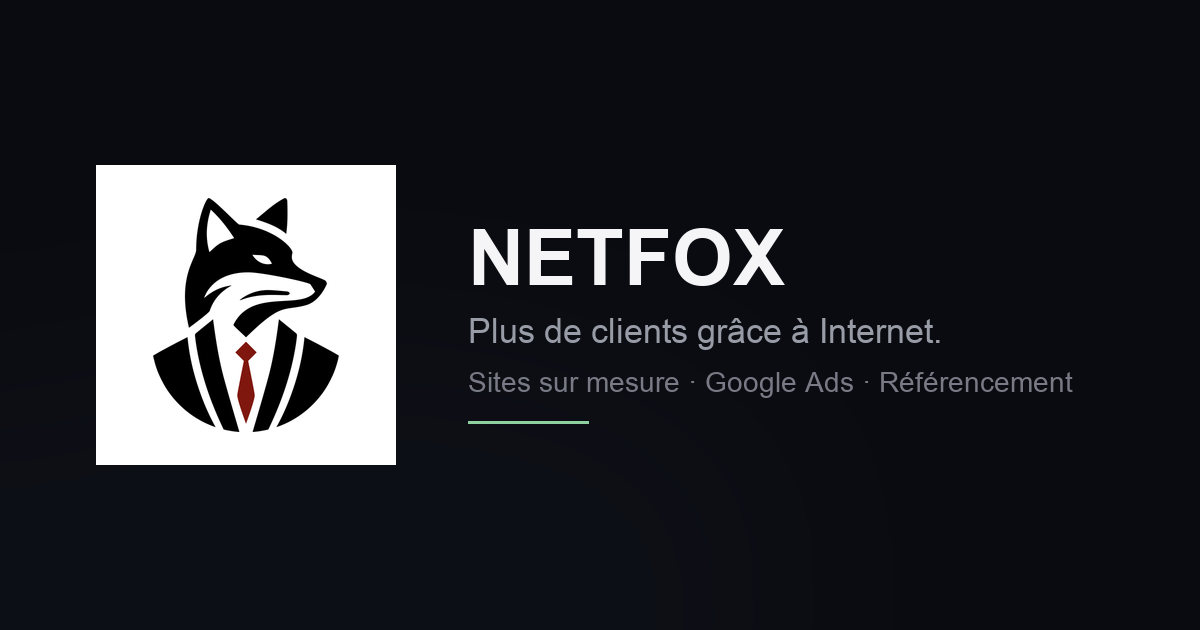
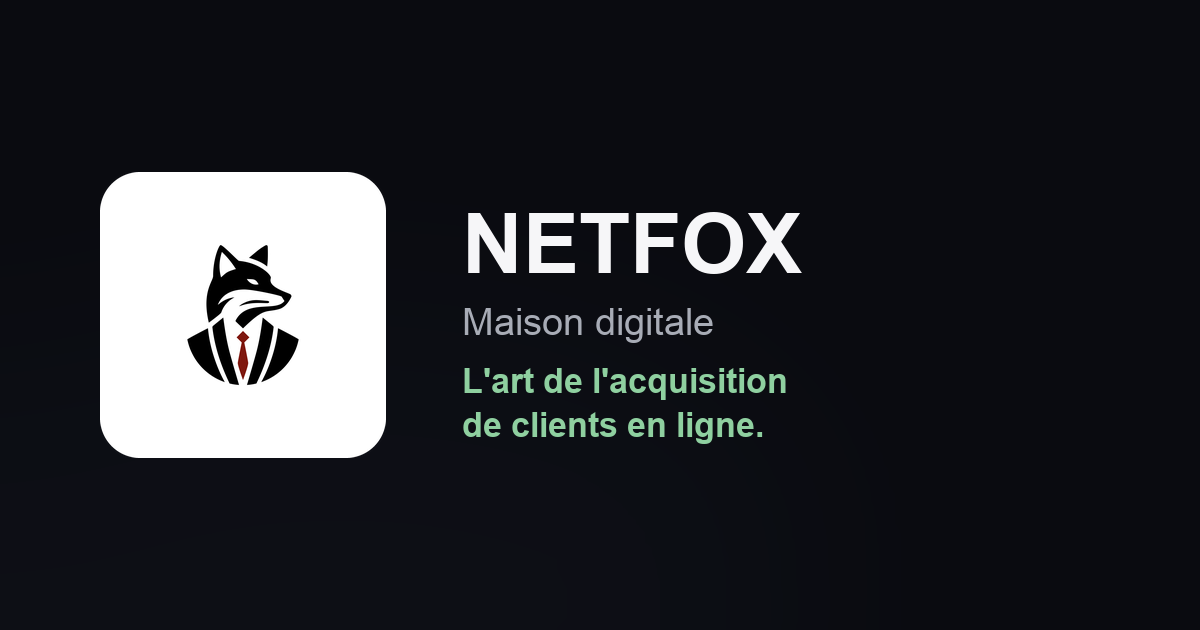
Partage : signature de marque au lieu de l'intitulé de page
Un lien partagé affichait le titre SEO de la page, donc « Agence web au
Pays Basque… » pour la page locale. Le titre SEO s'adresse à Google, le
titre de partage à un humain qui reçoit le lien : ils sont désormais
dissociés.

- Partage par défaut sur toutes les pages : « NETFOX · Maison digitale »,
  « L'art de l'acquisition de clients en ligne. »
- La page Publicité Google garde sa propre accroche, avec les chiffres :
  « ×2,4 à ×7,5 de retour constaté chez nos clients. »
- Les titres SEO restent inchangés, chargés en mots-clés, chacun sur sa page
- Image de partage refaite avec cette signature et le logo en tuile arrondie

diff --git a/scripts/prerender.ts b/scripts/prerender.ts
@@ -19,6 +19,8 @@ import { resolve } from "path";
 import { VERTICALS } from "../src/content/verticals";
 
 const SITE = "https://netfox.ai";
+const OG_TITLE = "NETFOX · Maison digitale";
+const OG_DESC = "L'art de l'acquisition de clients en ligne.";
 
 type Route = {
   path: string;
@@ -28,6 +30,11 @@ type Route = {
   body: string;
   /** Balisage JSON-LD propre à la page, en plus du graphe global. */
   jsonLd?: object;
+  /** Titre et texte affichés quand le lien est partagé. Volontairement
+   *  différents du titre SEO : ils s'adressent à un humain, pas à Google,
+   *  et doivent porter la marque plutôt qu'un intitulé de page. */
+  ogTitle?: string;
+  ogDescription?: string;
   noindex?: boolean;
 };
 
@@ -38,6 +45,9 @@ const routes: Route[] = [
   {
     path: "/publicite-google",
     title: "Publicité Google pour artisans et PME · Netfox",
+    ogTitle: "NETFOX · Publicité Google",
+    ogDescription:
+      "Être premier au moment exact où l'on vous cherche. ×2,4 à ×7,5 de retour constaté chez nos clients.",
     description:
       "Être premier sur Google au moment exact où l'on vous cherche. Notre méthode en cinq points et les retours sur investissement constatés chez nos clients : ×2,4 à ×7,5.",
     jsonLd: {
@@ -143,11 +153,11 @@ for (const r of routes) {
   );
   html = html.replace(
     /<meta property="og:title" content="[\s\S]*?" \/>/,
-    `<meta property="og:title" content="${esc(r.title)}" />`
+    `<meta property="og:title" content="${esc(r.ogTitle ?? OG_TITLE)}" />`
   );
   html = html.replace(
     /<meta property="og:description" content="[\s\S]*?" \/>/,
-    `<meta property="og:description" content="${esc(r.description)}" />`
+    `<meta property="og:description" content="${esc(r.ogDescription ?? OG_DESC)}" />`
   );
 
   if (r.noindex) {

diff --git a/index.html b/index.html
@@ -32,13 +32,15 @@
     <meta property="og:url" content="https://netfox.ai/" />
     <meta property="og:site_name" content="Netfox" />
     <meta property="og:locale" content="fr_FR" />
-    <meta property="og:title" content="Netfox · Studio web : sites sur mesure, Google Ads et référencement" />
-    <meta property="og:description" content="Plus de clients grâce à Internet : sites sur mesure, référencement, publicité Google et tunnels de conversion. Retours sur investissement mesurés." />
+    <!-- Partage : le titre SEO parle à Google, celui-ci parle à un humain qui
+         reçoit le lien. D'où deux formulations différentes, c'est voulu. -->
+    <meta property="og:title" content="NETFOX · Maison digitale" />
+    <meta property="og:description" content="L'art de l'acquisition de clients en ligne." />
     <meta property="og:image" content="https://netfox.ai/og-image.png" />
 
     <meta name="twitter:card" content="summary_large_image" />
-    <meta name="twitter:title" content="Netfox · Studio web : sites sur mesure, Google Ads et référencement" />
-    <meta name="twitter:description" content="Plus de clients grâce à Internet : sites sur mesure, référencement, publicité Google et tunnels de conversion." />
+    <meta name="twitter:title" content="NETFOX · Maison digitale" />
+    <meta name="twitter:description" content="L'art de l'acquisition de clients en ligne." />
     <meta name="twitter:image" content="https://netfox.ai/og-image.png" />
 
     <!--
